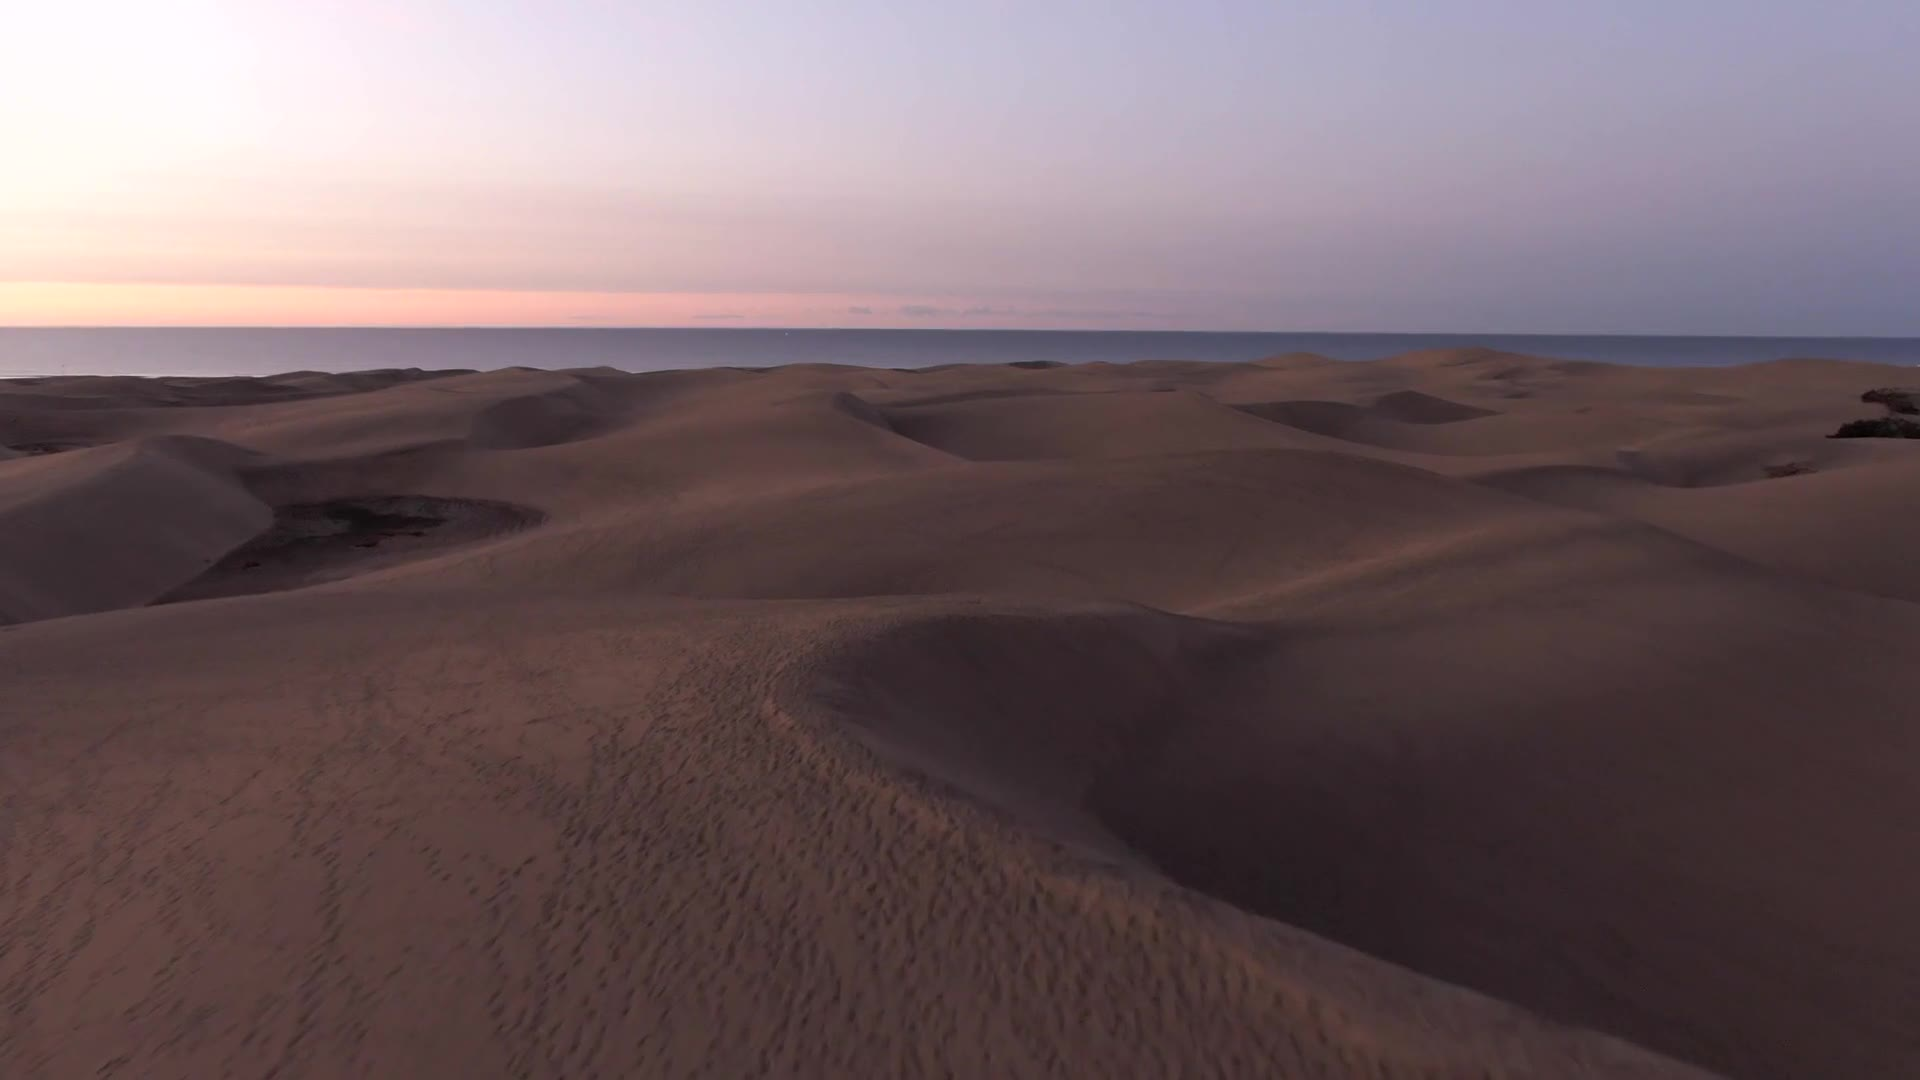
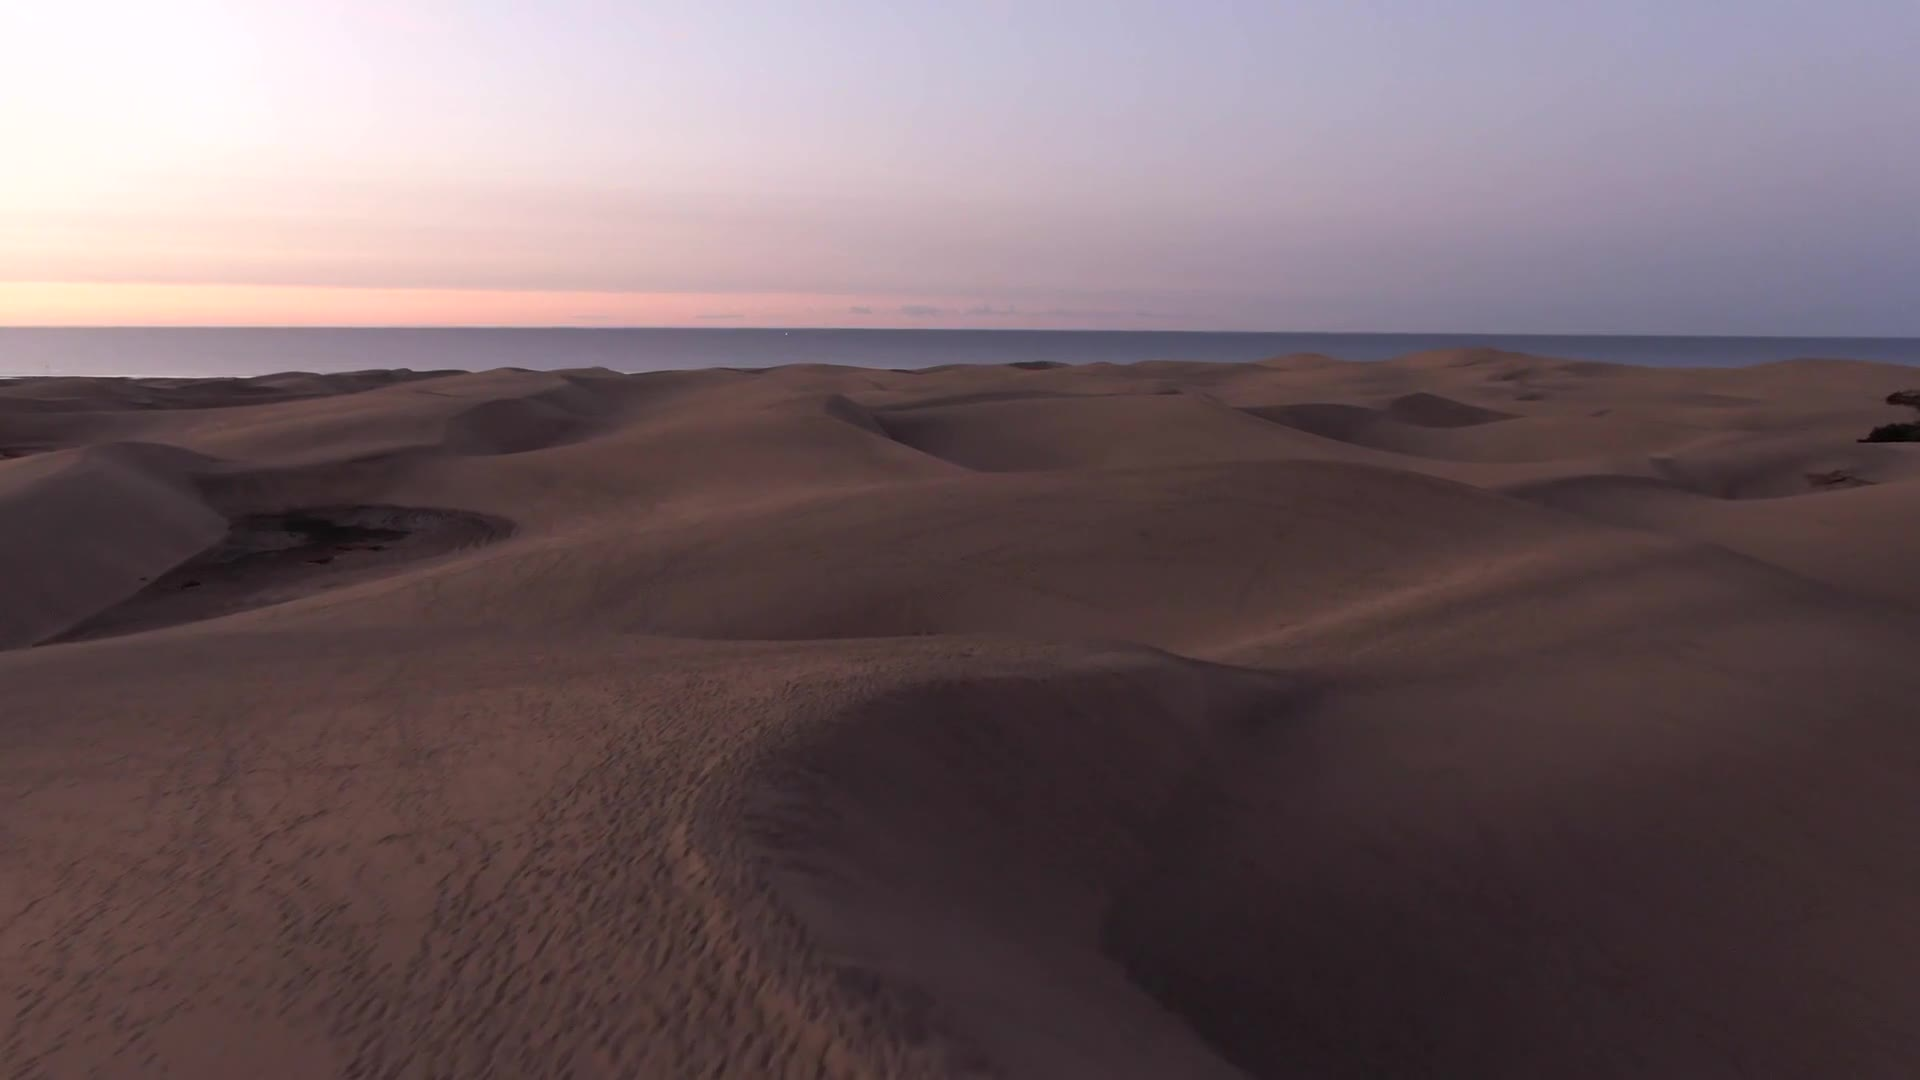
Fix the hero's first second: cut, don't fade; start past the soft opening
Three separate things were stacked on top of each other at page load, and one
of them I introduced yesterday.

The fade was mine. The old code used a CSS transition, which does not animate
on an element's first render — so the video simply appeared. Replacing it with
an animation to fix the loop seam also made it run at mount, and what it was
cross-fading was the poster against a near-identical video frame. Worse, the
two were not registered: the poster carries scale-105 and the players carried
no transform at all, so for a second and a half the hero showed the same dune
twice, 5% apart, blended. That is the blur. The dissolve is now reserved for
loop handoffs — where the two frames genuinely differ and a fade is the point
— and the first reveal is a straight cut. The players carry the poster's scale
so nothing can drift out of register again.

The stutter was starting too early. Playback began on `autoplay`, which fires
as soon as the browser has a couple of frames, on a buffer with nothing behind
it. Now nothing is shown until there are 2.5 seconds of decoded video waiting
beyond the playhead — and because the poster is a still of the exact frame
playback begins on, that wait looks like nothing at all. Slow connections are
not held hostage to it: after 6 seconds it plays with whatever has arrived.

The softness was in the clip itself, and the request to skip the first second
was right. x264's rate control spends its opening settling: measured on this
[…]

diff --git a/client/src/pages/home.tsx b/client/src/pages/home.tsx
@@ -105,17 +105,46 @@ const pressLogos: { name: string; text: string; url: string; textKey?: string }[
 
 // One clip, played forever: the Gobi dune drone glide. Two stacked players
 // of the same file alternate — as the live one nears its final seconds, the
-// idle one restarts from zero and the pair crossfade, so the drift across
-// the desert never visibly ends.
+// idle one restarts and the pair crossfade, so the drift across the desert
+// never visibly ends.
 const GOBI_VIDEO = "/videos/gobi-web.mp4";
 const GOBI_POSTER = "/images/gobi-poster.jpg";
+// Every cycle begins here, not at zero. x264's rate control spends its first
+// stretch after the opening keyframe settling down — measurably: the encoded
+// detail in a frame climbs about 6% between t=0 and t=2 — so the clip's true
+// first second is softer than the rest of it, and that softness is the first
+// thing anyone sees. Starting past it also means the frames being shown are
+// ones that were fetched a while ago rather than moments ago.
+// The poster is cut from this exact timestamp (see .github/workflows/media.yml);
+// if this number changes, that frame has to change with it.
+const HERO_START_S = 1.5;
+// Don't show the video until this many seconds are decoded and waiting beyond
+// the playhead. Until then the poster holds — and since the poster IS this
+// frame, waiting looks like nothing at all, where starting early looks like a
+// stutter.
+const HERO_WARMUP_S = 2.5;
+// A slow connection must not mean a hero that never moves: after this long,
+// play with whatever has arrived.
+const HERO_WARMUP_TIMEOUT_MS = 6000;
 // Hand over this many seconds before the clip ends. The dissolve itself is
 // slightly shorter (see .hero-dissolve) so it finishes while the outgoing
 // player still has frames left to give.
 const LOOP_FADE_S = 1.6;
 // How far ahead to wake the idle player: fetch it if it has never loaded, and
-// park it at t=0. Both are things you do NOT want to be doing at the seam.
+// park it on the start frame. Both are things you do NOT want to be doing at
+// the seam.
 const LOOP_PRIME_S = 10;
+
+// Seconds of contiguous buffered video sitting ahead of the playhead.
+function bufferedAhead(el: HTMLVideoElement): number {
+  const t = el.currentTime;
+  for (let i = 0; i < el.buffered.length; i++) {
+    if (el.buffered.start(i) <= t + 0.05 && el.buffered.end(i) > t) {
+      return el.buffered.end(i) - t;
+    }
+  }
+  return 0;
+}
 
 function HeroSection() {
   const { t } = useLanguage();
@@ -134,8 +163,22 @@ function HeroSection() {
   // both sit near 50%, so the layer behind shows through and the desert dips
   // in brightness once every loop, right at the seam you are trying to hide.
   const [dissolving, setDissolving] = useState(false);
+  // Whether the video has taken over from the poster yet, and how many times
+  // it has looped. The count matters because the FIRST appearance must not
+  // dissolve: the poster and the video hold the same frame, so a cross-fade
+  // there blends two nearly identical images — and since the poster is scaled
+  // slightly differently than the video used to be, that read as a soft,
+  // ghosted second at load rather than as a transition. Handoffs later on are
+  // between genuinely different frames and do want the dissolve.
+  const [live, setLive] = useState(false);
+  const [loops, setLoops] = useState(0);
   const playersRef = useRef<(HTMLVideoElement | null)[]>([null, null]);
   const primed = useRef(false);
+  // Shared between the warm-up and the offscreen observer below, so neither
+  // starts playback the other has decided against.
+  const onScreenRef = useRef(true);
+  const liveRef = useRef(false);
+  liveRef.current = live;
 
   const handleTimeUpdate = (i: number) => {
     if (i !== active) return;
@@ -156,9 +199,9 @@ function HeroSection() {
       }
       const rewind = () => {
         try {
-          other.currentTime = 0;
+          other.currentTime = HERO_START_S;
         } catch {
-          // Seek refused; play() below rewinds an ended player anyway.
+          // Seek refused; it will be retried at the seam.
         }
       };
       if (other.readyState >= 1) rewind();
@@ -167,11 +210,66 @@ function HeroSection() {
 
     if (remaining <= LOOP_FADE_S) {
       primed.current = false;
+      // Belt and braces: if priming never ran (or the seek was refused while
+      // metadata was still loading), put the partner on the start frame now.
+      if (other.currentTime < HERO_START_S - 0.1 || other.ended) {
+        try {
+          other.currentTime = HERO_START_S;
+        } catch {
+          /* nothing more to do; it will start wherever it can */
+        }
+      }
       void other.play()?.catch(() => {});
       setDissolving(true);
+      setLoops((n) => n + 1);
       setActive(1 - i);
     }
   };
+
+  // First play. Nothing is shown until the video can genuinely run: seek past
+  // the soft opening, then wait for a real cushion of decoded frames beyond
+  // the playhead. The poster is that same frame, so this wait is invisible —
+  // whereas playing the instant `canplay` fires means starting on a nearly
+  // empty buffer, which is the stutter.
+  useEffect(() => {
+    if (staticHero) return;
+    const el = playersRef.current[0];
+    if (!el) return;
+    let started = false;
+
+    const attempt = (force = false) => {
+      if (started || !el.duration || !isFinite(el.duration)) return;
+      // Arriving mid-page (a restored scroll position, a #hash link) means the
+      // hero may never have been on screen. Don't start it behind their back.
+      if (!onScreenRef.current || document.visibilityState !== "visible") return;
+      if (el.currentTime < HERO_START_S - 0.05) {
+        try {
+          el.currentTime = HERO_START_S;
+        } catch {
+          /* metadata not ready yet; a later event will retry */
+        }
+        if (!force) return;
+      }
+      if (!force && el.readyState < 4 && bufferedAhead(el) < HERO_WARMUP_S) return;
+      started = true;
+      void el.play().catch(() => {});
+      setLive(true);
+    };
+
+    const events = ["loadedmetadata", "seeked", "progress", "canplay", "canplaythrough"];
+    const onEvent = () => attempt();
+    events.forEach((e) => el.addEventListener(e, onEvent));
+    // buffered ranges grow without firing an event on every browser.
+    const poll = window.setInterval(onEvent, 150);
+    const giveUp = window.setTimeout(() => attempt(true), HERO_WARMUP_TIMEOUT_MS);
+    attempt();
+
+    return () => {
+      events.forEach((e) => el.removeEventListener(e, onEvent));
+      clearInterval(poll);
+      clearTimeout(giveUp);
+    };
+  }, [staticHero]);
 
   // Once the dissolve has finished the outgoing player is completely covered,
   // so it can drop out of the composite and stop decoding without a flicker.
@@ -198,19 +296,22 @@ function HeroSection() {
     if (!el) return;
     const resume = () => {
       if (document.visibilityState !== "visible") return;
+      // Before the first reveal the warm-up owns starting playback — it is
+      // still deciding whether there are enough frames to run smoothly.
+      if (!liveRef.current) return;
       void playersRef.current[activeRef.current]?.play()?.catch(() => {});
     };
     const park = () => playersRef.current.forEach((p) => p?.pause());
-    let onScreen = true;
     const io = new IntersectionObserver(
       ([entry]) => {
-        onScreen = entry.isIntersecting;
-        onScreen ? resume() : park();
+        onScreenRef.current = entry.isIntersecting;
+        onScreenRef.current ? resume() : park();
       },
       { rootMargin: "100px" }
     );
     io.observe(el);
-    const onVisibility = () => (document.visibilityState === "visible" && onScreen ? resume() : park());
+    const onVisibility = () =>
+      document.visibilityState === "visible" && onScreenRef.current ? resume() : park();
     document.addEventListener("visibilitychange", onVisibility);
     return () => {
       io.disconnect();
@@ -225,12 +326,17 @@ function HeroSection() {
       data-testid="section-hero"
     >
       <div className="absolute inset-0 z-0">
-        {/* Instant paint while the stream buffers — no black flash. When the
-            video is skipped entirely (Save Data, or reduced motion) this still
-            is the hero, so it gets the slow drift: a composited transform,
-            no bytes, and the class disables itself under reduced motion — so
-            the visitor on a metered connection gets a living frame and the
-            visitor who asked for stillness gets stillness. */}
+        {/* Instant paint while the stream buffers — no black flash. This is a
+            still of the exact frame the video starts on, so the handover from
+            one to the other is invisible and the wait costs nothing to look at.
+            The scale MUST match the players below: they sit on top of this, and
+            5% of misregistration between two near-identical images reads as a
+            soft, doubled second at load — which is precisely what it did.
+            When the video is skipped entirely (Save Data, or reduced motion)
+            this is the hero outright, so it takes the slow drift: a composited
+            transform, no bytes, and the class disables itself under reduced
+            motion — a metered visitor gets a living frame, a visitor who asked
+            for stillness gets stillness. */}
         <img
           src={GOBI_POSTER}
           alt=""
@@ -247,20 +353,26 @@ function HeroSection() {
               ref={(el) => {
                 playersRef.current[i] = el;
               }}
-              autoPlay={i === 0}
+              // No autoPlay: playback starts from the warm-up effect above,
+              // once there are enough decoded frames to run without stalling.
               muted
               playsInline
               preload={i === 0 ? "auto" : "none"}
               src={GOBI_VIDEO}
               onTimeUpdate={() => handleTimeUpdate(i)}
-              className={`hero-video absolute inset-0 w-full h-full object-cover ${
-                i === active
-                  ? // On top, dissolving in. React drops and re-adds this class
-                    // on every handoff, which is what restarts the animation.
-                    "z-20 opacity-100 hero-dissolve"
-                  : dissolving
-                    ? "z-10 opacity-100" // holding underneath, still visible
-                    : "z-10 opacity-0" // parked
+              className={`hero-video absolute inset-0 w-full h-full object-cover scale-105 ${
+                !live
+                  ? "z-10 opacity-0" // poster still has the stage
+                  : i === active
+                    ? // On top. The dissolve is for LOOP handoffs only — the
+                      // first reveal is a straight cut from a poster showing
+                      // the very same frame, so there is nothing to fade.
+                      // React drops and re-adds this class on every handoff,
+                      // which is what restarts the animation.
+                      `z-20 opacity-100 ${loops > 0 ? "hero-dissolve" : ""}`
+                    : dissolving
+                      ? "z-10 opacity-100" // holding underneath, still visible
+                      : "z-10 opacity-0" // parked
               }`}
             />
           ))}
